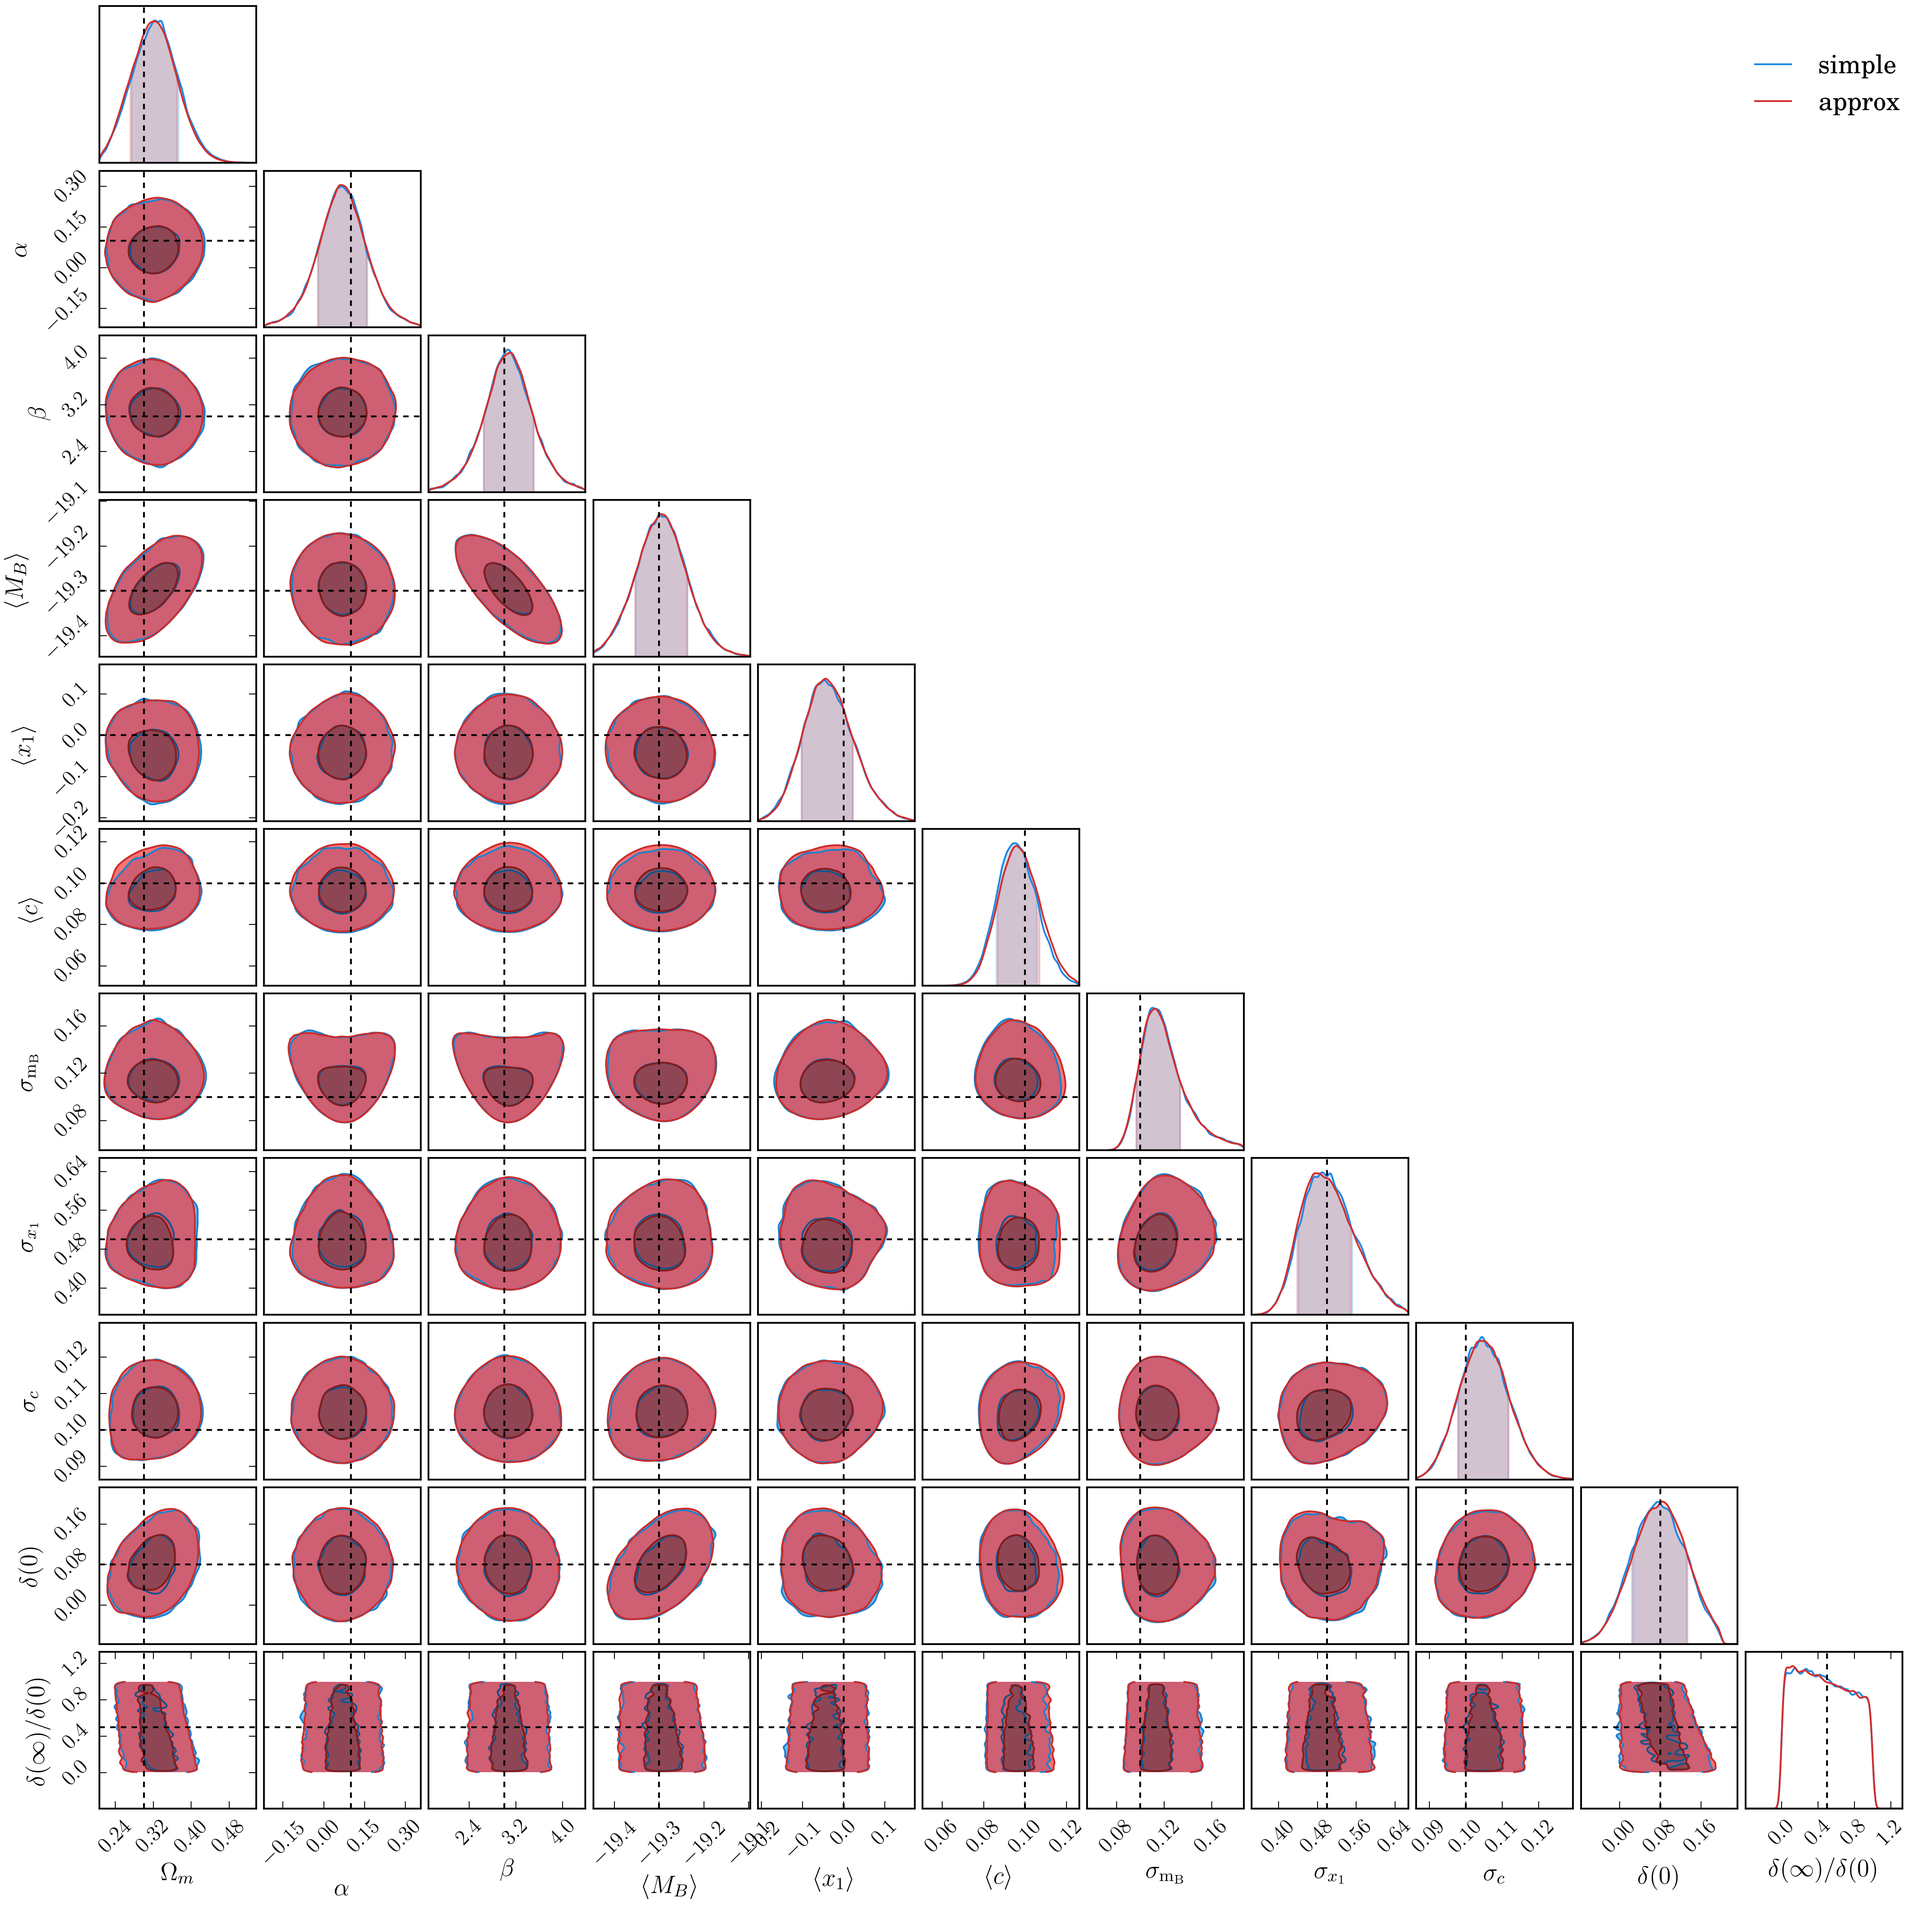
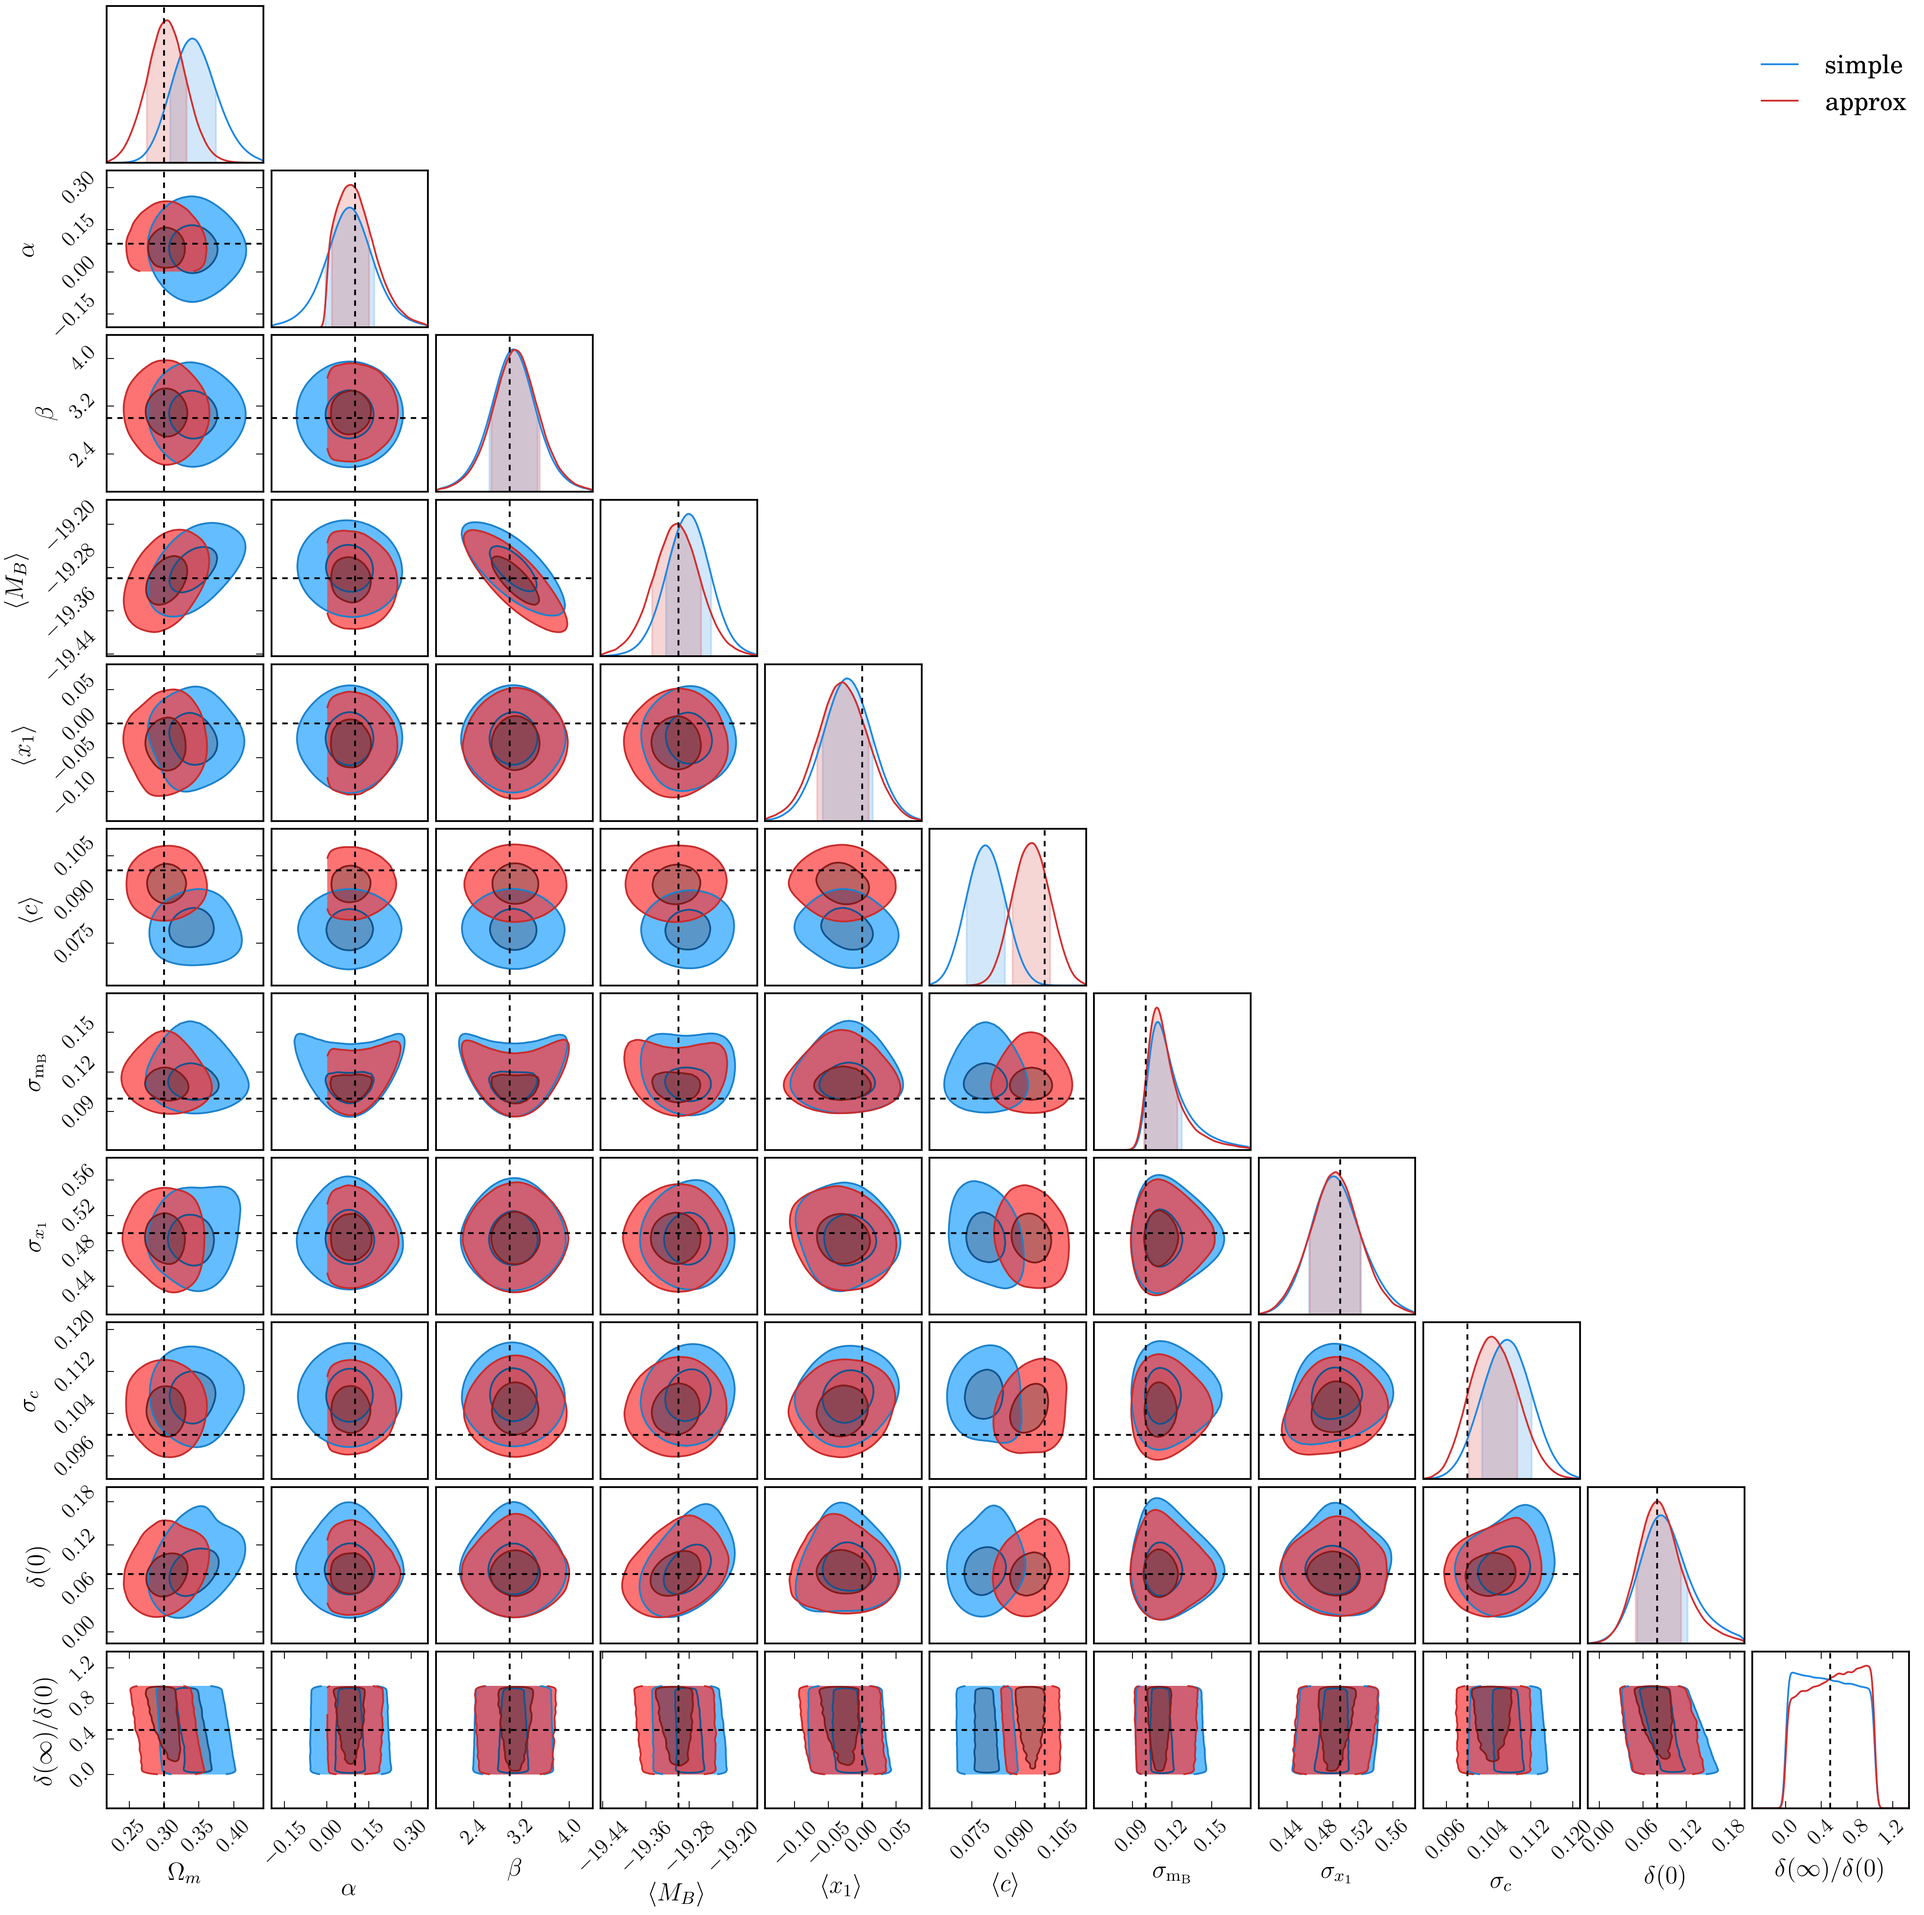
Multiple cosmologies have come back ,yay

Changed region(s): [[0.0, 0.0, 0.9942, 0.9987], [0.9631, 0.0312, 0.9942, 0.0624]]

diff --git a/dessn/models/d_simple_stan/load.py b/dessn/models/d_simple_stan/load.py
@@ -84,7 +84,7 @@ def load_stan_from_folder(folder, replace=True, merge=True, cut=True, num=None):
         summary = c.get_summary()
         num_failed = sum([1 if summary[k][0] is None else 0 for k in summary.keys()])
         num_param = len(list(summary.keys()))
-        if not cut or num_failed < 3:
+        if not cut or num_failed < 4:
             print("Chain %s good" % k)
             good_ks.append(k)
             result.append((chain, posterior, truths, params, full_params, len(chains), weights, ow))
@@ -201,16 +201,19 @@ def plot_quick(folder, uid, include_sep=False):
 if __name__ == "__main__":
     dir_name = os.path.dirname(os.path.abspath(__file__))
     output = dir_name + "/output/complete.png"
-    folders = ["simple", "stan_mc", "approx"]
+    folders = ["simple", "approx"] # "stan_mc",
+    use_weight = [False, True]
 
     c = ChainConsumer()
-    for f in folders:
+    for f, u in zip(folders,use_weight):
         loc = dir_name + os.sep + f + "/stan_output"
         t = None
         try:
             chain, posterior, t, p, ff, l, w, ow = load_stan_from_folder(loc, merge=True)
-            print(ow.mean())
-            c.add_chain(chain, weights=w, posterior=posterior, walkers=l, name=f)
+            if u:
+                c.add_chain(chain, weights=w, posterior=posterior, walkers=l, name=f)
+            else:
+                c.add_chain(chain, posterior=posterior, walkers=l, name=f)
         except Exception as e:
             print(e)
             print("No files found in %s" % loc)

diff --git a/dessn/models/d_simple_stan/approx/load.py b/dessn/models/d_simple_stan/approx/load.py
@@ -39,9 +39,9 @@ def debug_plots(std):
 if __name__ == "__main__":
     dir_name = os.path.dirname(__file__)
     std = dir_name + "/stan_output"
-    # plot_quick(std, "approx", include_sep=True)
+    plot_quick(std, "approx", include_sep=True)
     # plot_all_weight(std, dir_name + "/../output/plot_approx_weight.png")
-    for i in range(15):
-        plot_single_cosmology_weight(std, dir_name + "/../output/plot_approx_single_weight_%d.png" % i, i=i)
+    # for i in range(15):
+    #     plot_single_cosmology_weight(std, dir_name + "/../output/plot_approx_single_weight_%d.png" % i, i=i)
     # debug_plots(std)
 
